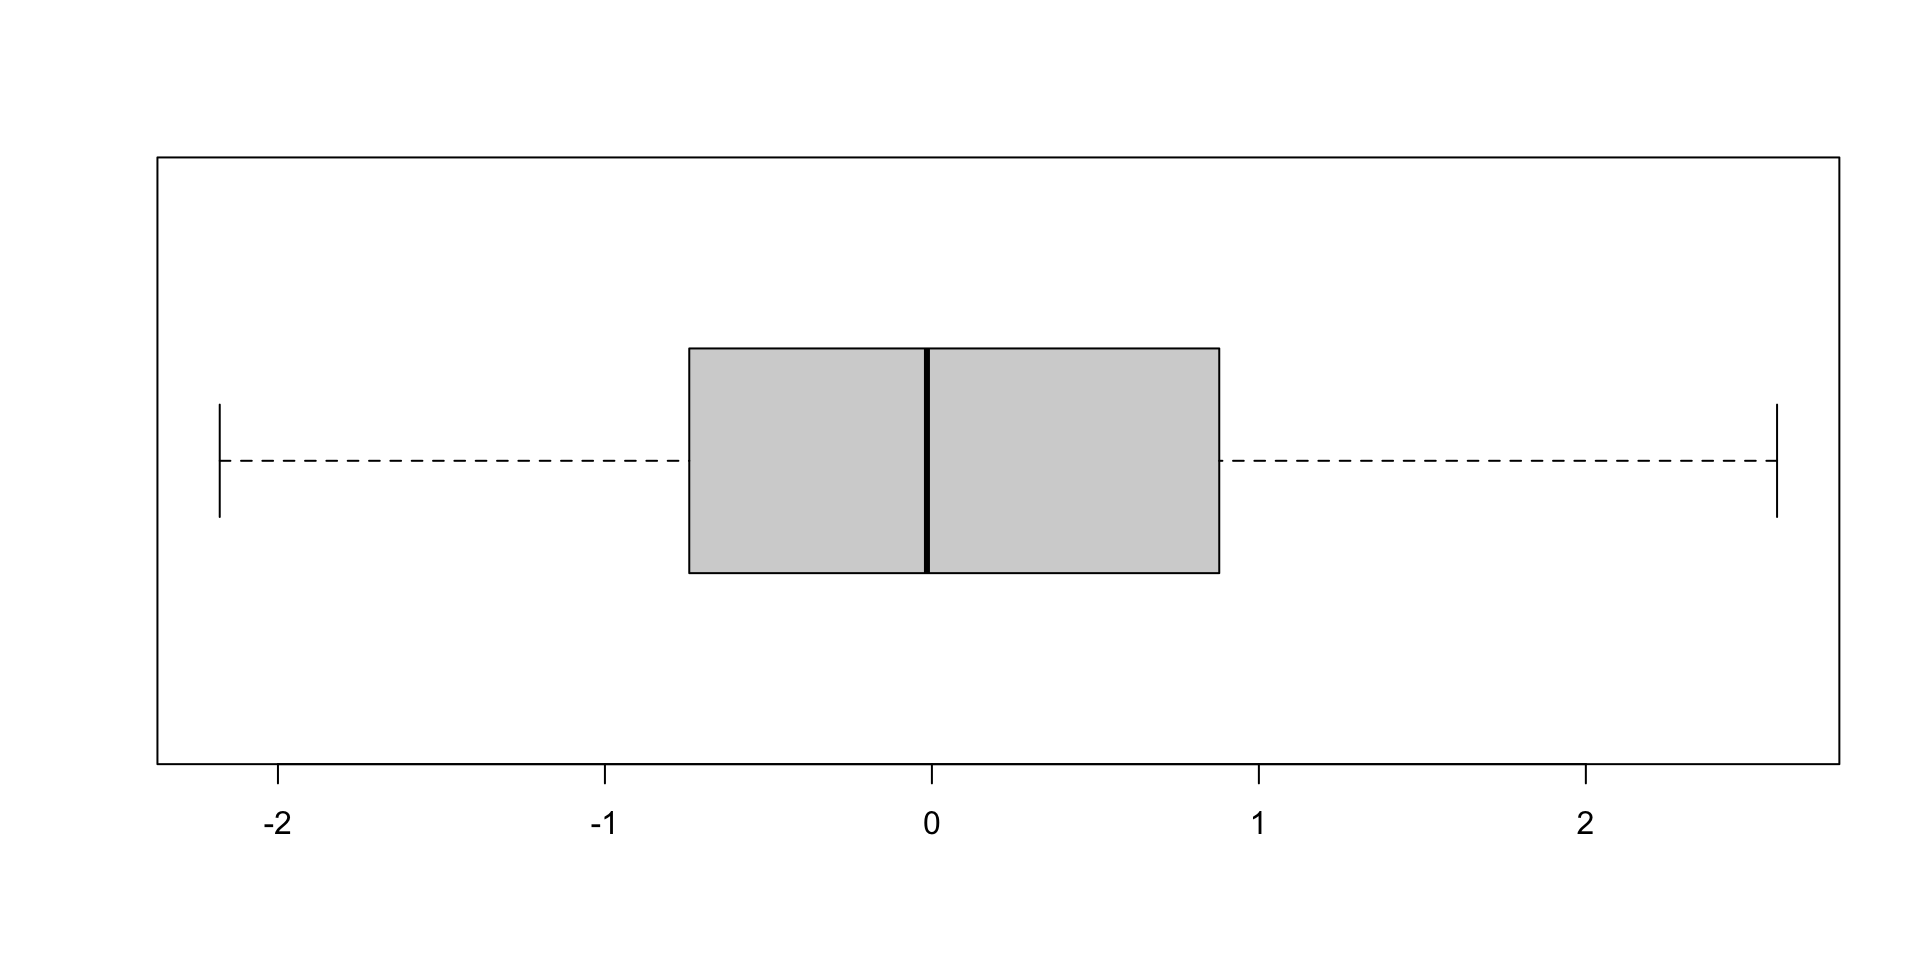
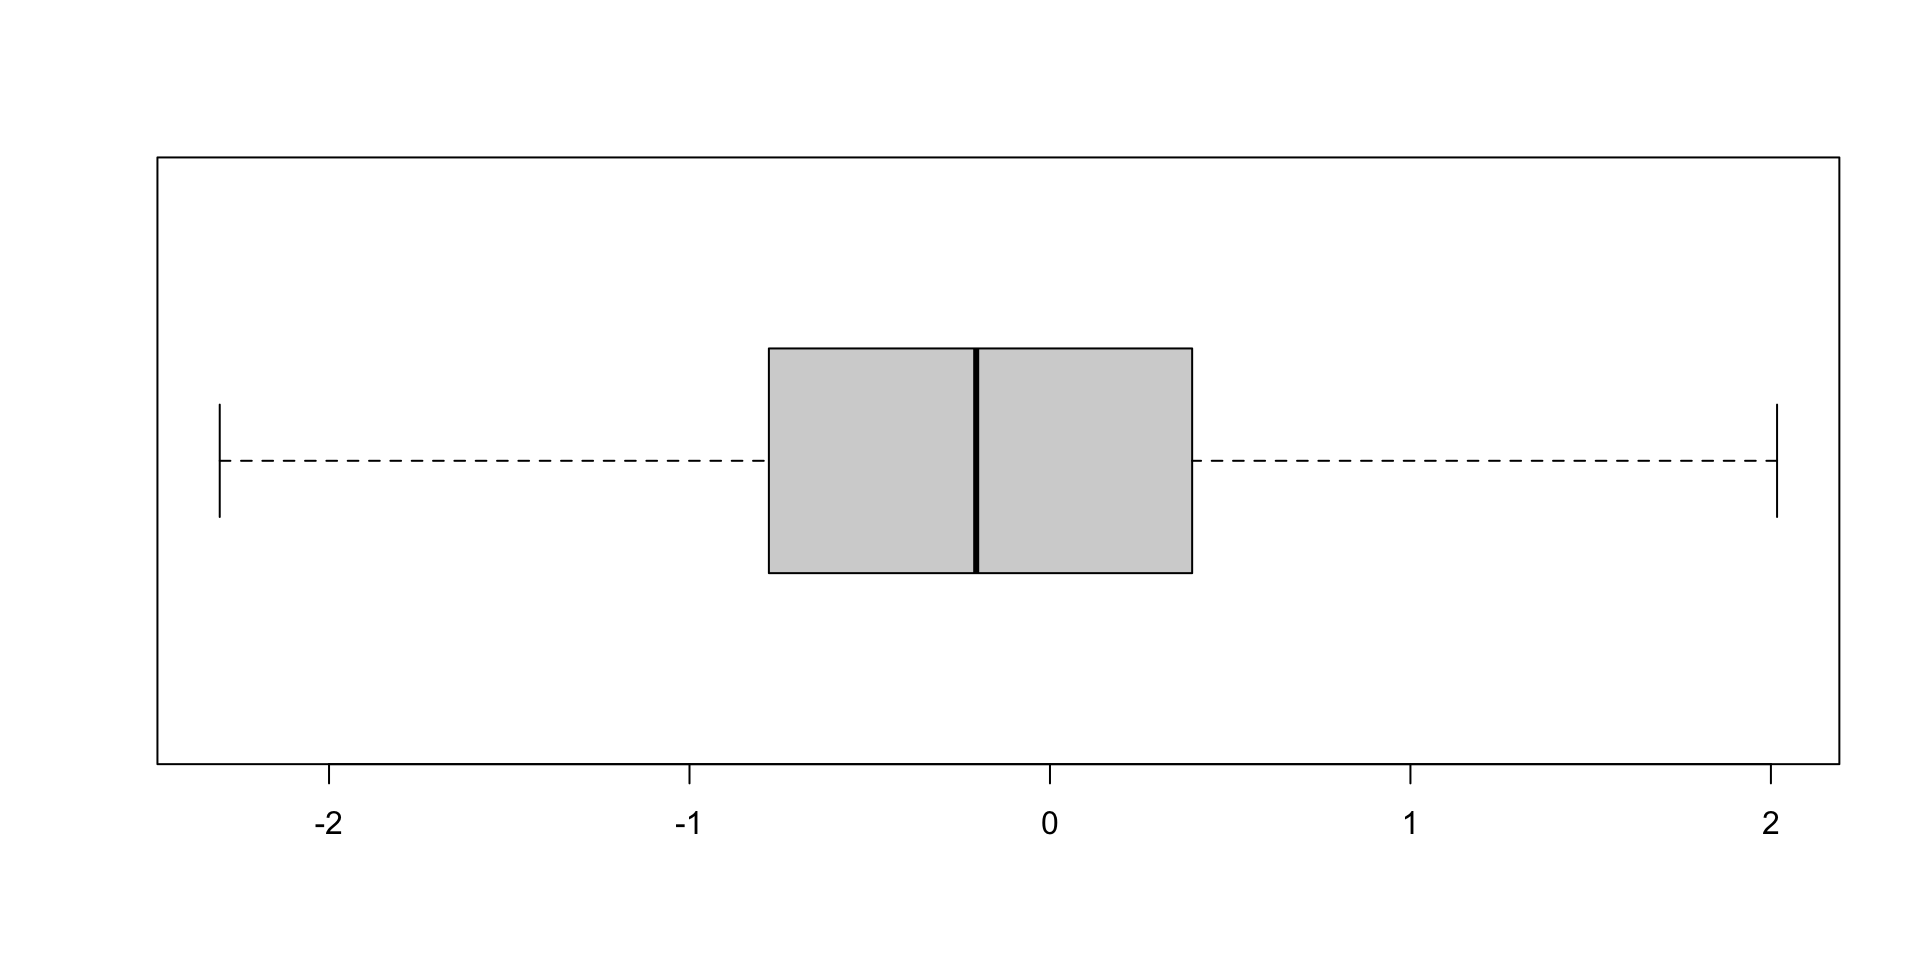
Added citations

diff --git a/wids.html b/wids.html
@@ -440,8 +440,11 @@ Colton Gearhart &amp; Dr.&nbsp;Aihua Li
 <img data-src="images/dataviz-lifecycle.png" style="width:50.0%" class="r-stretch"></section>
 <section id="data-viz-and-data-science" class="slide level2">
 <h2>Data viz and data science</h2>
+<p><img data-src="images/data-science-project-workflow.png" style="width:50.0%"></p>
 
-<img data-src="images/data-science-project-workflow.png" style="width:50.0%" class="r-stretch"></section>
+<aside><div>
+<p>https://r4ds.hadley.nz/whole-game</p>
+</div></aside></section>
 <section id="data-viz-and-r" class="slide level2">
 <h2>Data viz and R</h2>
 <p>This presentation introduces the world of <strong>ggplot2</strong>, several different types of plots, and some basic features to enhance your visuals. Then it covers simple data visualization principles when working with multiple variables and how to implement these within <strong>ggplot2</strong>.</p>
@@ -452,7 +455,10 @@ Colton Gearhart &amp; Dr.&nbsp;Aihua Li
 <p><img data-src="images/ggplot.png"></p>
 </div>
 </div>
-</section>
+
+<aside><div>
+<p>https://posit.co/download/rstudio-desktop/ and https://ggplot2.tidyverse.org/</p>
+</div></aside></section>
 <section id="prerequisites" class="slide level2">
 <h2>Prerequisites</h2>
 <p>Before we can use the functions, datasets, and help pages within the <strong>tidyverse</strong>, which includes ggplot2, we need to load the package. We can do this by running:</p>
@@ -849,8 +855,8 @@ Colton Gearhart &amp; Dr.&nbsp;Aihua Li
 <span id="cb13-5"><a href=""></a><span class="fu">summary</span>(x)</span></code><button title="Copy to Clipboard" class="code-copy-button"><i class="bi"></i></button></pre></div>
 </div><div class="column">
 <div class="cell-output cell-output-stdout">
-<pre><code>    Min.  1st Qu.   Median     Mean  3rd Qu.     Max. 
--2.17805 -0.73342 -0.01515  0.02191  0.82559  2.58480 </code></pre>
+<pre><code>   Min. 1st Qu.  Median    Mean 3rd Qu.    Max. 
+-2.3032 -0.7668 -0.2047 -0.1717  0.3838  2.0171 </code></pre>
 </div>
 </div>
 </div>
